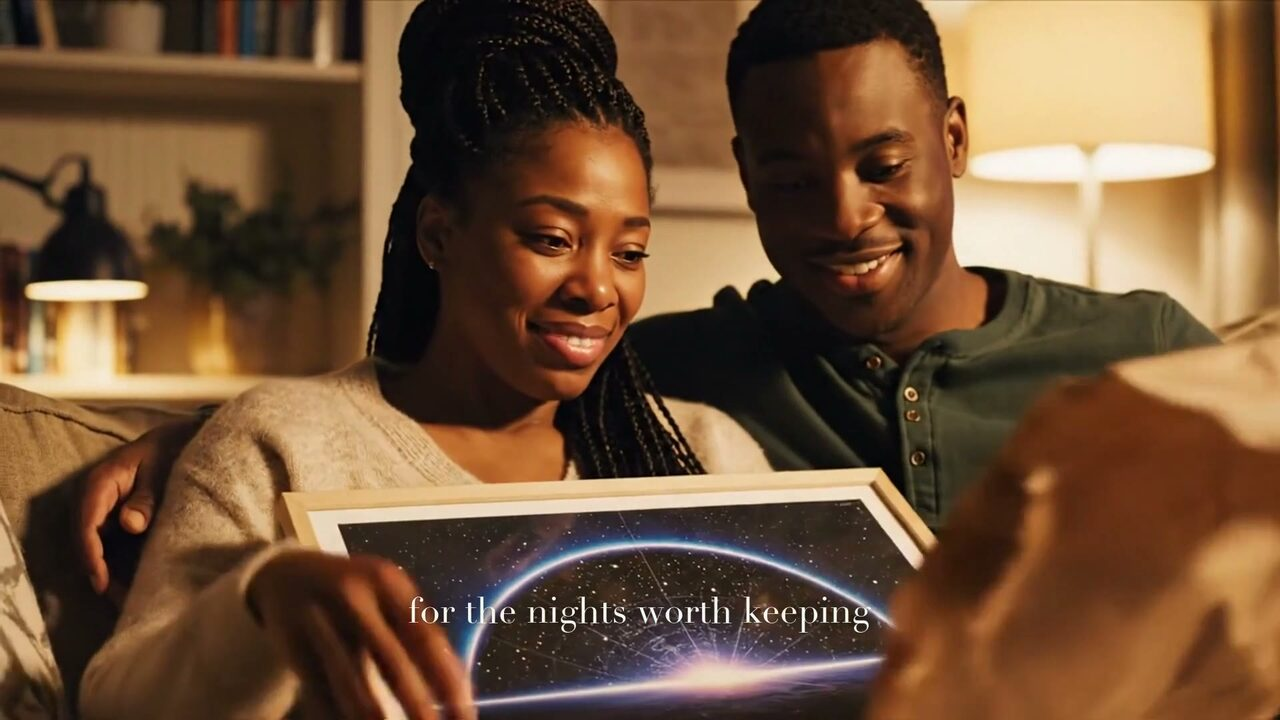
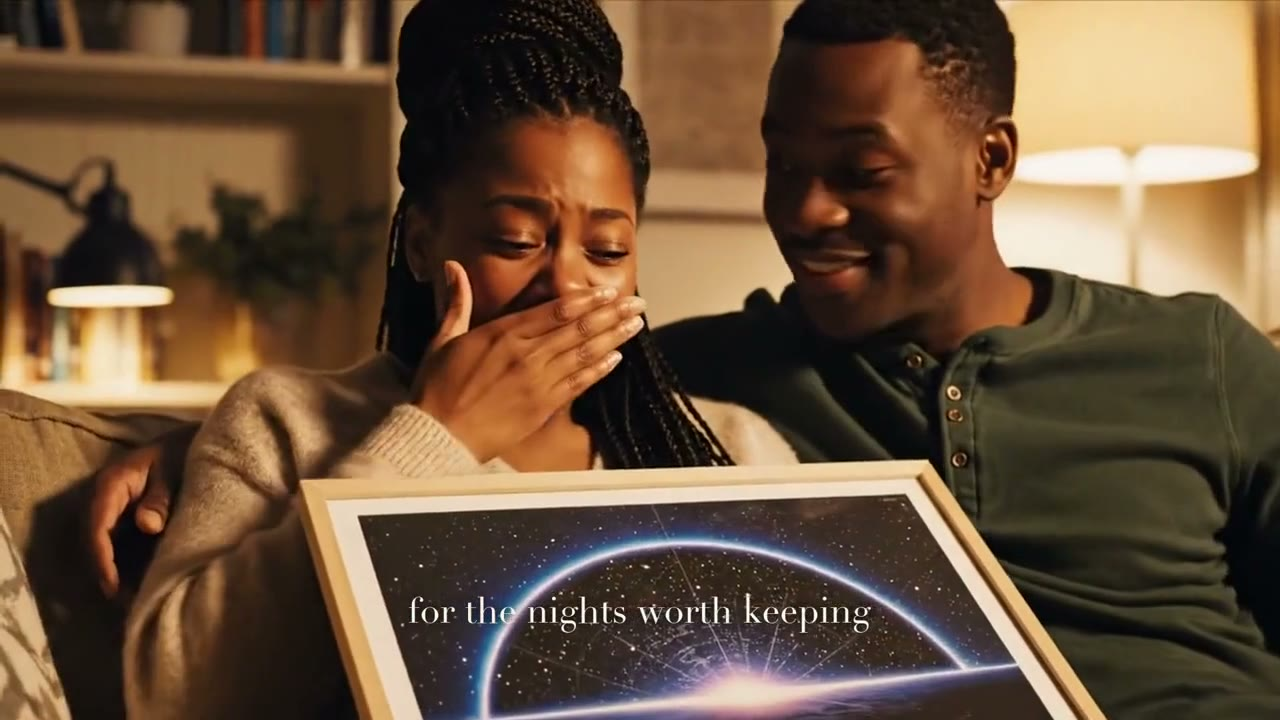
Film: trim garbled gift-unwrap moment (match pins); cache-bust v4

diff --git a/index.html b/index.html
@@ -333,7 +333,7 @@
     <h2>Some nights deserve a frame.</h2>
     <div class="sm-film">
       <video autoplay muted loop playsinline preload="metadata" poster="assets/starmap/film-poster.jpg" aria-label="Sky, That Night film: a couple laughing on a rooftop, a proposal under the stars, a gift unwrapped, a star map on the wall, a newborn by the window">
-        <source src="assets/starmap/skythatnight-film.mp4?v=3" type="video/mp4">
+        <source src="assets/starmap/skythatnight-film.mp4?v=4" type="video/mp4">
       </video>
       <button class="sm-film-sound" type="button" aria-label="Turn sound on">🔊 Sound</button>
     </div>